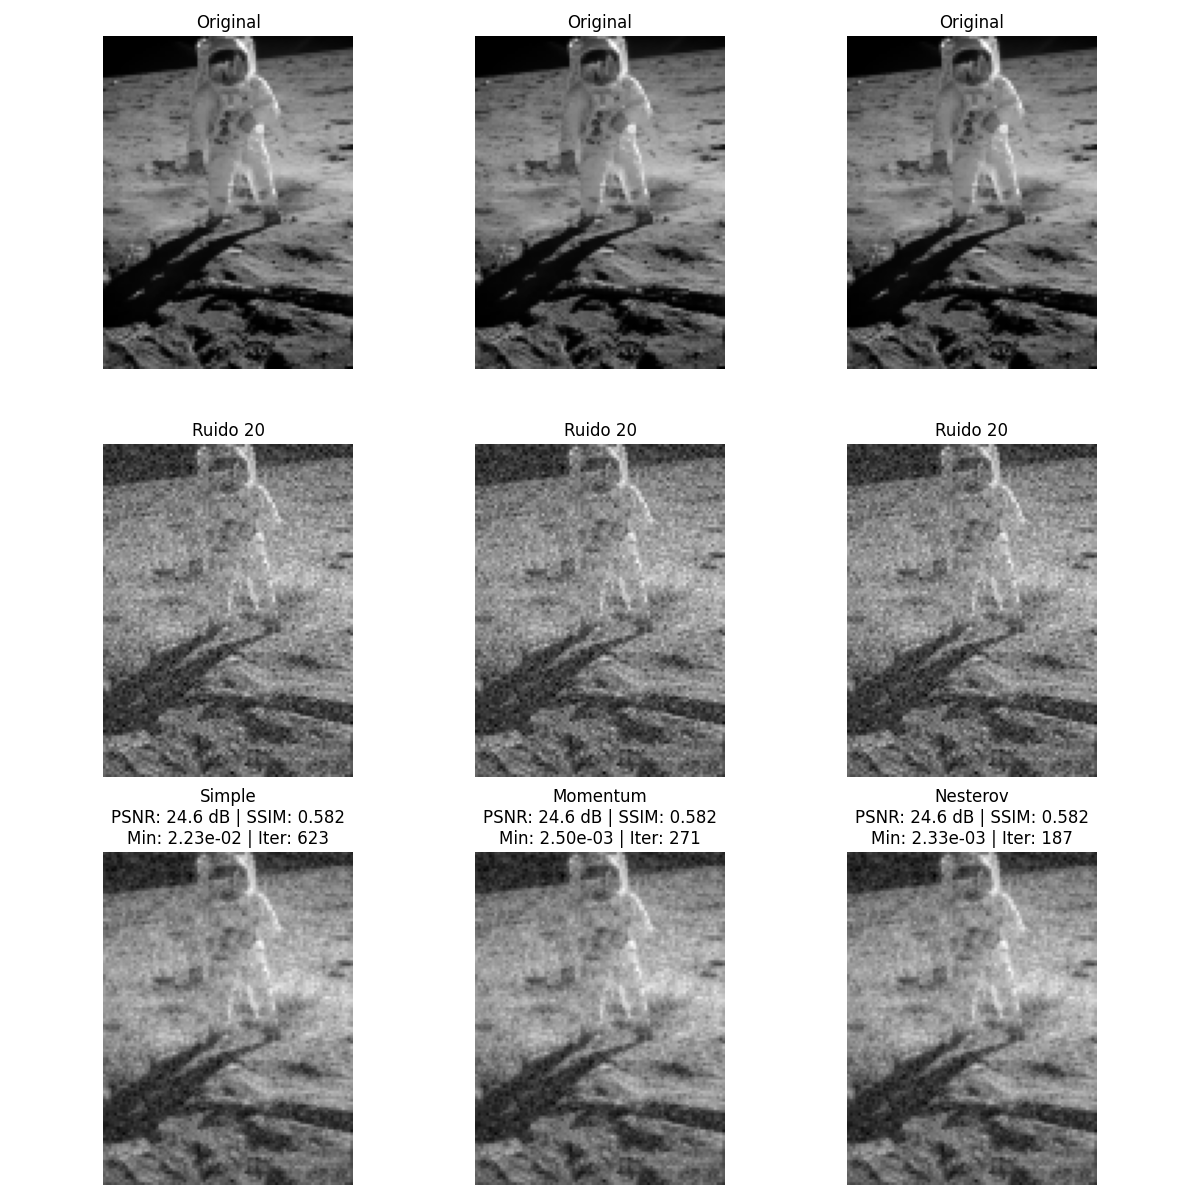
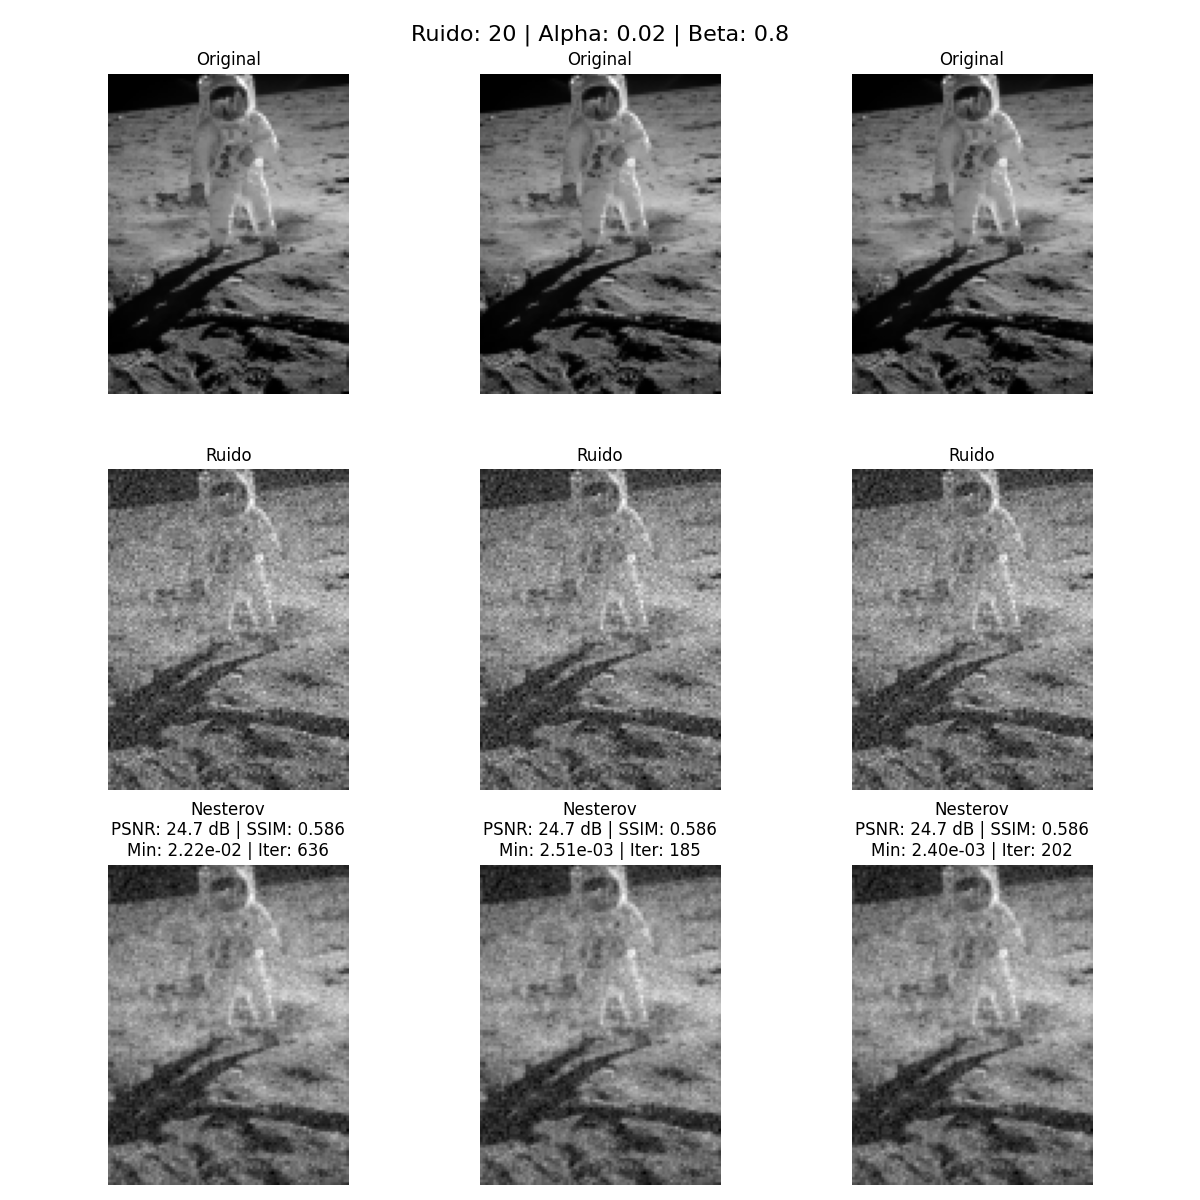
Refactor image processing script: remove unused gradient class and update PSNR function with JIT compilation

diff --git a/optimization/proyectos/proyecto_final.py b/optimization/proyectos/proyecto_final.py
@@ -1,181 +1,20 @@
-#from mathkat import Gradiente 
+from mathkat import Gradiente 
 from colorstreak import log
 import numpy as np
 import cv2
-from rich.console import Console
 from dataclasses import dataclass, field
 import matplotlib.pyplot as plt
 from skimage.metrics import structural_similarity as ssim
 from numba import jit
 
 
-def psnr(img1, img2, max_pixel: float = 255.0) -> float:
+@jit(nopython=True)
+def psnr(img1, img2, max_pixel: float = 255.0):
     """Calcula PSNR (dB) entre dos imágenes."""
     mse = np.mean((img1 - img2) ** 2)
     if mse == 0:
         return float("inf")
     return 20 * np.log10(max_pixel / np.sqrt(mse))
-
-
-# ================================================ Gradiente temporar (borrar despues de las pruebas) ===========================================================
-
-
-
-console = Console()
-
-@dataclass
-class Gradiente:
-    """
-    Clase que representa una función objetivo y sus métodos de optimización mediante descenso de gradiente.
-    Permite aplicar diferentes variantes del descenso de gradiente y visualizar los resultados en tablas.
-    """
-
-    f : callable
-    grad_f : callable
-    x_0 : np.ndarray
-    v_0 : np.ndarray
-    alpha : float
-    iteraciones : int
-    epsilon : float
-    eta : float
-    x_historico : list = field(default_factory=list, init=False)
-    data : list = field(default_factory=list, init=False)
-
-    @staticmethod
-    def _desempaquetar(func, x_0):
-        try:
-            return func(*x_0)
-        except TypeError:
-            return func(x_0)
-
-        
-
-    def reset(self):
-        """
-        Reinicia el historial de posiciones y datos.
-        """
-        self.x_historico = []
-        self.data = []
-    
-
-    @jit(nopython=True, cache=True)
-    def simple(self):
-        """
-        Realiza el descenso de gradiente estándar para minimizar la función objetivo.
-        En cada iteración, actualiza la posición usando el gradiente y almacena el historial de posiciones y normas.
-        Imprime una tabla con los resultados de cada iteración.
-        
-        Retorna:
-        - x_historico: Lista con el historial de posiciones x en cada iteración.
-        """
-        self.reset()
-        f = self.f
-        grad_f = self.grad_f
-        x0 = self.x_0
-        lr = self.alpha
-        max_iters = self.iteraciones
-        epsilon = self.epsilon
-        self.x_historico = [x0]
-        chico = []
-        
-        for i in range(max_iters):
-            f_i = self._desempaquetar(f, x0)
-            grad_f_i = self._desempaquetar(grad_f, x0)
-            norm_grad = np.linalg.norm(grad_f_i)
-            if norm_grad < epsilon: 
-                break
-            xi = x0 - lr * grad_f_i
-            x0 = xi.copy()
-            print(f"Iteración {i+1}: x0 = {x0}, grad_f = {grad_f_i}, norma_grad = {norm_grad}")
-            self.x_historico.append(x0)
-            self.data.append((i+1, x0.tolist(), norm_grad))
-            chico.append(norm_grad)
-        self.mas_chico = min(chico)
-        self.iteracion_mas_chico = chico.index(self.mas_chico) + 1
-        return self.x_historico
-
-
-    @jit(nopython=True, cache=True)
-    def momentum(self):
-        """
-        Aplica el método de descenso de gradiente con momentum para minimizar la función objetivo.
-        Utiliza un término de velocidad para acelerar la convergencia y almacena el historial de posiciones, normas y velocidades.
-        Imprime una tabla con los resultados de cada iteración.
-        
-        Retorna:
-        - x_historico: Lista con el historial de posiciones x en cada iteración.
-        """
-        self.reset()
-        f = self.f
-        grad_f = self.grad_f
-        x0 = self.x_0
-        v0 = self.v_0
-        lr = self.alpha
-        eta = self.eta
-        max_iters = self.iteraciones
-        epsilon = self.epsilon
-        self.x_historico = [x0]
-        chico = []
-        for i in range(max_iters):
-            f_i = self._desempaquetar(f, x0)
-            grad_f_i = self._desempaquetar(grad_f, x0)
-            norma_grad = np.linalg.norm(grad_f_i)
-            if norma_grad < epsilon:
-                break
-            vi = eta * v0 + lr * grad_f_i
-            xi = x0 - vi
-            x0 = xi.copy()
-            v0 = vi.copy()
-            self.x_historico.append(x0)
-            chico.append(norma_grad)
-            self.data.append((i+1, x0.tolist(), norma_grad, vi.tolist()))
-            print(f"Iteración {i+1}: x0 = {x0}, grad_f = {grad_f_i}, norma_grad = {norma_grad}, velocidad = {vi}")
-        self.mas_chico = min(chico)
-        self.iteracion_mas_chico = chico.index(self.mas_chico) + 1
-        return self.x_historico
-    
-    
-    @jit(nopython=True, cache=True)
-    def nesterov(self):
-        """
-        Aplica el método de descenso de gradiente con Nesterov para minimizar la función objetivo.
-        Utiliza un término de velocidad y calcula el gradiente en la posición adelantada (lookahead).
-        Imprime una tabla con los resultados de cada iteración.
-        
-        Retorna:
-        - x_historico: Lista con el historial de posiciones x en cada iteración.
-        """
-        self.reset()
-        f = self.f
-        grad_f = self.grad_f
-        x0 = self.x_0
-        v0 = self.v_0
-        lr = self.alpha
-        eta = self.eta
-        max_iters = self.iteraciones
-        epsilon = self.epsilon
-        self.x_historico = [x0]
-        chico = []
-        
-        for i in range(max_iters):
-            lookahead = x0 - eta * v0
-            grad_f_i = self._desempaquetar(grad_f, lookahead)
-            norm_grad = np.linalg.norm(grad_f_i)
-            if norm_grad < epsilon:
-                break
-            vi = eta * v0 + lr * grad_f_i
-            xi = x0 - vi
-            x0 = xi.copy()
-            v0 = vi.copy()
-            self.x_historico.append(x0)
-            self.data.append((i+1, x0.tolist(), norm_grad, vi.tolist()))
-            chico.append(norm_grad)
-            print(f"Iteración {i+1}: x0 = {x0}, grad_f = {grad_f_i}, norma_grad = {norm_grad}")
-        self.mas_chico = min(chico)
-        self.iteracion_mas_chico = chico.index(self.mas_chico) + 1
-        print(f"Iteración con menor norma del gradiente: en la iteración: {self.iteracion_mas_chico} con valor {self.mas_chico}")
-        
-        return self.x_historico
 
 
 
@@ -263,18 +102,20 @@ class EnergiaL2:
 # ================================================ PROYECTO FINAL ===========================================================
 
 
+def mensaje(psnr, ssim, min, iter,):
+    return (f"Nesterov\nPSNR: {psnr:.1f} dB | SSIM: {ssim:.3f}"
+            f"\nMin: {min:.2e} | Iter: {iter}")
+    
 # ==================== Ejemplo de uso (actualizado) ====================
 
 ruta_base = '/Users/ferleon/Documents/GitHub/semestre_IV/optimization/proyectos/'
 ruta_img  = ruta_base + 'men_moon.jpg'   
 
 imagen_original = Imagen(ruta_img)
-print(f"Imagen original: {imagen_original.ancho}x{imagen_original.alto}")
 
 reductor = 10
 
 imagen_original.cambiar_tam(imagen_original.ancho // reductor, imagen_original.alto // reductor)
-# Array de imagen original redimensionada para métricas/plots
 img_original = imagen_original.imagen.copy()
 f_img = imagen_original.imagen.astype(np.float32)
 
@@ -282,9 +123,9 @@ imagen_ruido = Imagen(ruta_img)
 imagen_ruido.cambiar_tam(imagen_ruido.ancho // reductor, imagen_ruido.alto // reductor)
 
 for ruido in [0, 10, 20, 30, 40, 50]:
+    
     imagen_ruido.aplicar_ruido_al_pixel(ruido)         
     f_noisy = imagen_ruido.imagen.astype(np.float32)
-    cv2.imwrite(ruta_base + f'imagen_ruido_{ruido}.png', f_noisy)
 
     energia = EnergiaL2(f_noisy, lam=0.2)
 
@@ -305,8 +146,6 @@ for ruido in [0, 10, 20, 30, 40, 50]:
     min_nesterov = gradiente.mas_chico
     iter_nesterov = gradiente.iteracion_mas_chico
     foto_nesterov = gradiente.x_historico[-1].reshape(energia.H, energia.W)
-    cv2.imwrite(ruta_base + f'imagen_denoise_{metodo}.png', foto_nesterov)
-    print(f"Imagen con nesterov guardada como imagen_denoise_{metodo}.png")
 
 
     metodo = 'momentum'
@@ -314,8 +153,6 @@ for ruido in [0, 10, 20, 30, 40, 50]:
     min_momentum = gradiente.mas_chico
     iter_momentum = gradiente.iteracion_mas_chico
     foto_momentum = gradiente.x_historico[-1].reshape(energia.H, energia.W)
-    cv2.imwrite(ruta_base + f'imagen_denoise_{metodo}.png', foto_momentum)
-    print(f"Imagen con momentum guardada como imagen_denoise_{metodo}.png")
 
 
     metodo = 'simple'
@@ -323,13 +160,11 @@ for ruido in [0, 10, 20, 30, 40, 50]:
     min_simple = gradiente.mas_chico
     iter_simple = gradiente.iteracion_mas_chico
     foto_simple = gradiente.x_historico[-1].reshape(energia.H, energia.W)
-    cv2.imwrite(ruta_base + f'imagen_denoise_{metodo}.png', foto_simple)
-    print(f"Imagen con simple guardada como imagen_denoise_{metodo}.png")
-
 
 
     # Mostrar las imágenes en 3 filas: original, ruido, restaurada (simple, momentum, nesterov)
     fig, axs = plt.subplots(3, 3, figsize=(12, 12))
+    fig.suptitle(f'Ruido: {ruido} | Alpha: {gradiente.alpha} | Beta: {gradiente.eta}', fontsize=16)
 
     # Leer imágenes restauradas
     img_ruido = imagen_ruido.imagen
@@ -357,6 +192,8 @@ for ruido in [0, 10, 20, 30, 40, 50]:
 
 
 
+
+
     # Fila 1: Imagen original
     for j, metodo in enumerate(['simple', 'momentum', 'nesterov']):
         axs[0, j].imshow(img_original, cmap='gray')
@@ -366,29 +203,31 @@ for ruido in [0, 10, 20, 30, 40, 50]:
     # Fila 2: Imagen con ruido
     for j, metodo in enumerate(['simple', 'momentum', 'nesterov']):
         axs[1, j].imshow(img_ruido, cmap='gray')
-        axs[1, j].set_title(f'Ruido {ruido}')
+        axs[1, j].set_title(f'Ruido')
         axs[1, j].axis('off')
 
-    # Fila 3: Restauradas con iteración alcanzada
+    # Sección de imágenes restauradas
+    # Simple
     axs[2, 0].imshow(img_simple, cmap='gray')
-    axs[2, 0].set_title(
-        f"Simple\nPSNR: {psnr_simple:.1f} dB | SSIM: {ssim_simple:.3f}"
-        f"\nMin: {min_simple:.2e} | Iter: {iter_simple}"
-    )
+    axs[2, 0].set_title(mensaje(
+        psnr_simple, ssim_simple, min_simple, iter_simple
+    ))
+    # Momentum
     axs[2, 0].axis('off')
     axs[2, 1].imshow(img_momentum, cmap='gray')
-    axs[2, 1].set_title(
-        f"Momentum\nPSNR: {psnr_momentum:.1f} dB | SSIM: {ssim_momentum:.3f}"
-        f"\nMin: {min_momentum:.2e} | Iter: {iter_momentum}"
-    )
+    axs[2, 1].set_title(mensaje(
+        psnr_momentum, ssim_momentum, min_momentum, iter_momentum
+    ))
+    
+    # Nesterov
     axs[2, 1].axis('off')
     axs[2, 2].imshow(img_nesterov, cmap='gray')
-    axs[2, 2].set_title(
-        f"Nesterov\nPSNR: {psnr_nesterov:.1f} dB | SSIM: {ssim_nesterov:.3f}"
-        f"\nMin: {min_nesterov:.2e} | Iter: {iter_nesterov}"
-    )
+    axs[2, 2].set_title(mensaje(
+        psnr_nesterov, ssim_nesterov, min_nesterov, iter_nesterov
+    ))
     axs[2, 2].axis('off')
 
     plt.tight_layout()
+    
     plt.savefig(ruta_base + f'comparacion_{ruido}.png')
     plt.close()
